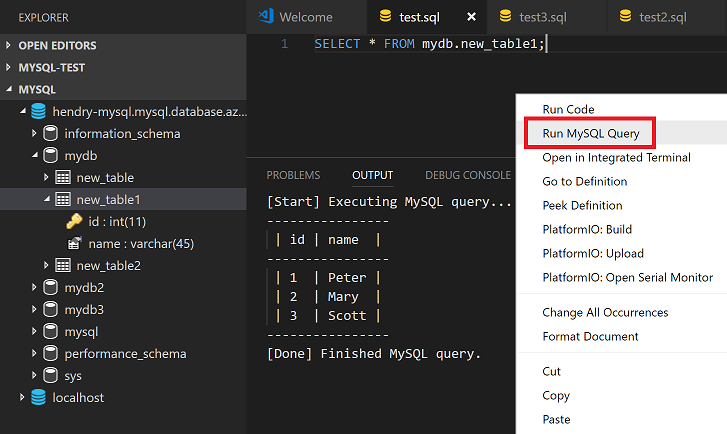
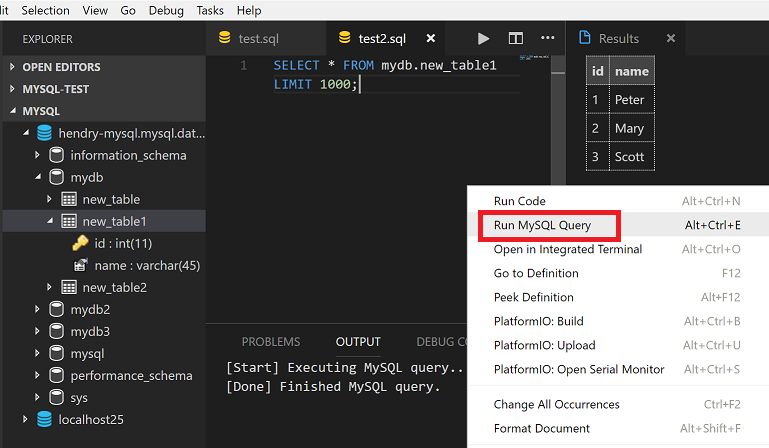
Bump version to 0.3.0

diff --git a/CHANGELOG.md b/CHANGELOG.md
@@ -1,3 +1,6 @@
+## 0.3.0 (2018-03-12)
+* Show query result as HTML table
+
 ## 0.2.3 (2018-02-23)
 * Add support for executing selected query
 
